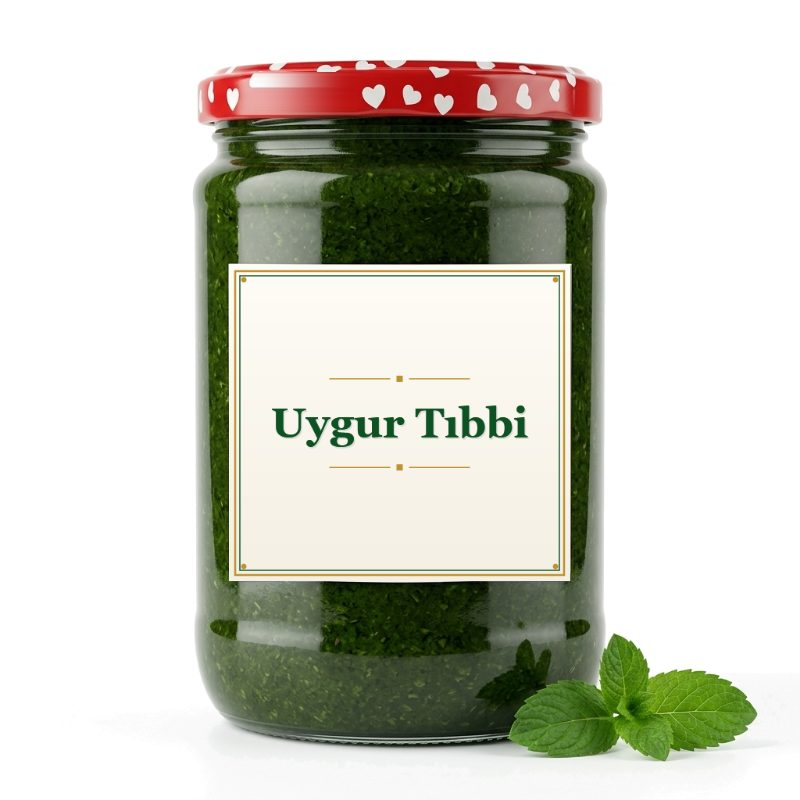
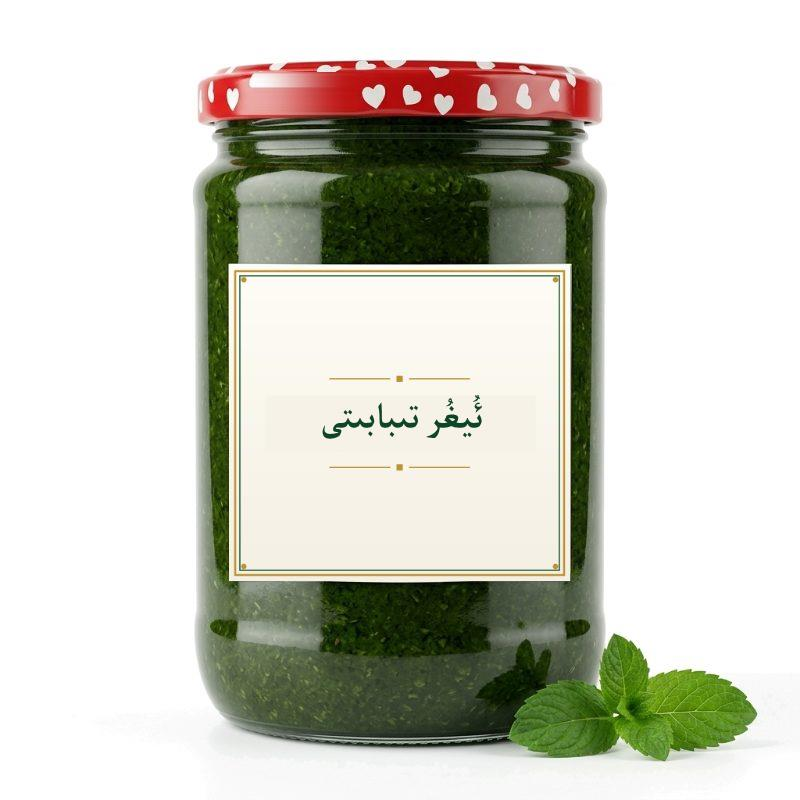
fix(ui): localize Özel Seçim and Şifalı Meyve badges to pure Uyghur, restore Uyghur jar label on PRD-100, fix shelf deal strip text, and hide mobile carousel navigation buttons

Changed region(s): [[0.3438, 0.5, 0.6562, 0.5625]]

diff --git a/js/i18n.js b/js/i18n.js
@@ -1253,7 +1253,28 @@ const PROMO_BADGE_LOCALIZATIONS = {
   'Bestseller': { ug: 'ئەڭ قىزىق', tr: 'Çok Satan', en: 'Bestseller' },
   'Best Seller': { ug: 'ئەڭ قىزىق', tr: 'Çok Satan', en: 'Best Seller' },
   'Special Deal': { ug: 'ئېتىبار مەھسۇلات', tr: 'Fırsat Ürünü', en: 'Special Deal' },
-  'Featured': { ug: 'تەۋسىيە', tr: 'Tavsiye', en: 'Featured' }
+  'Featured': { ug: 'تەۋسىيە', tr: 'Tavsiye', en: 'Featured' },
+  'Özel Seçim': { ug: 'ئالاھىدە تاللانما', tr: 'Özel Seçim', en: 'Special Selection' },
+  'Ozel Secim': { ug: 'ئالاھىدە تاللانما', tr: 'Özel Seçim', en: 'Special Selection' },
+  'Şifalı Meyve': { ug: 'شىپالىق مېۋە', tr: 'Şifalı Meyve', en: 'Healing Fruit' },
+  'Sifali Meyve': { ug: 'شىپالىق مېۋە', tr: 'Şifalı Meyve', en: 'Healing Fruit' },
+  'Şifalı Lezzet': { ug: 'شىپالىق لەززەت', tr: 'Şifalı Lezzet', en: 'Healing Taste' },
+  'Sifali Lezzet': { ug: 'شىپالىق لەززەت', tr: 'Şifalı Lezzet', en: 'Healing Taste' },
+  'Güneşte Pişen': { ug: 'قۇياش پىشقى', tr: 'Güneşte Pişen', en: 'Sun-Cured' },
+  'Guneste Pisen': { ug: 'قۇياش پىشقى', tr: 'Güneşte Pişen', en: 'Sun-Cured' },
+  'Kültür Mirası': { ug: 'مەدەنىيەت مىراسى', tr: 'Kültür Mirası', en: 'Cultural Heritage' },
+  'Kultur Mirasi': { ug: 'مەدەنىيەت مىراسى', tr: 'Kültür Mirası', en: 'Cultural Heritage' },
+  'Doğal Bakım': { ug: 'تەبىئىي گۈزەللىك', tr: 'Doğal Bakım', en: 'Natural Care' },
+  'Dogal Bakim': { ug: 'تەبىئىي گۈزەللىك', tr: 'Doğal Bakım', en: 'Natural Care' },
+  'Saf & Doğal': { ug: 'ساپ ۋە تەبىئىي', tr: 'Saf & Doğal', en: 'Pure & Natural' },
+  'Saf ve Dogal': { ug: 'ساپ ۋە تەبىئىي', tr: 'Saf & Doğal', en: 'Pure & Natural' },
+  'Şifalı Mantar': { ug: 'شىپالىق زەمبۇرۇغ', tr: 'Şifalı Mantar', en: 'Healing Mushroom' },
+  'Sifali Mantar': { ug: 'شىپالىق زەمبۇرۇغ', tr: 'Şifalı Mantar', en: 'Healing Mushroom' },
+  'Tavsiye Edilen': { ug: 'تەۋسىيە قىلىنغان', tr: 'Tavsiye Edilen', en: 'Recommended' },
+  'İndirimde': { ug: 'ئېتىباردا', tr: 'İndirimde', en: 'On Sale' },
+  'Indirimde': { ug: 'ئېتىباردا', tr: 'İndirimde', en: 'On Sale' },
+  '%100 Saf': { ug: '%100 ساپ', tr: '%100 Saf', en: '100% Pure' },
+  'Saf': { ug: 'ساپ', tr: 'Saf', en: 'Pure' }
 };
 
 // تۈرلەر ۋە تاۋار ناملىرى ئۈچۈن قوشۇمچە ئۆلچەملىك لۇغەت
@@ -1822,11 +1843,21 @@ class I18nManager {
 
     if (lang === 'ug') {
       // ئەگەر ئۇيغۇرچىدا تۈركچە ئاتالغۇلار قېلىپ قالسا ئۇنى تەرجىمە قىلىش
+      if (/Seçim|Secim/i.test(clean)) return 'ئالاھىدە تاللانما';
+      if (/Meyve/i.test(clean)) return 'شىپالىق مېۋە';
+      if (/Lezzet/i.test(clean)) return 'شىپالىق لەززەت';
+      if (/Güneş|Gunes/i.test(clean)) return 'قۇياش پىشقى';
+      if (/Miras/i.test(clean)) return 'مەدەنىيەت مىراسى';
+      if (/Bakım|Bakim/i.test(clean)) return 'تەبىئىي گۈزەللىك';
+      if (/Mantar/i.test(clean)) return 'شىپالىق زەمبۇرۇغ';
       if (/Fırsat|Firsat/i.test(clean)) return 'ئېتىبار مەھسۇلات';
+      if (/Saf & Doğal|Saf ve Dogal/i.test(clean)) return 'ساپ ۋە تەبىئىي';
       if (/Doğal|Dogal/i.test(clean)) return '%100 تەبىئىي';
       if (/Satan|Çok/i.test(clean)) return 'ئەڭ قىزىق';
       if (/Tavsiye/i.test(clean)) return 'تەۋسىيە';
       if (/Yeni/i.test(clean)) return 'يېڭى كەلگەن';
+      if (/İndirim|Indirim/i.test(clean)) return 'ئېتىباردا';
+      if (/Özel|Ozel/i.test(clean)) return 'ئالاھىدە رېتسىپ';
       return clean;
     }
 

diff --git a/js/app.js b/js/app.js
@@ -1507,7 +1507,11 @@ function initTeklimakanApp() {
       if (currentLang === 'ug' && (stripText.includes('Cuma Kap') || !stripText)) {
         stripText = (shelf.translations?.ug?.badgeStripText) || '🚚 ئەتە بوسۇغىڭىزدا';
       }
-      if (stripText) { stripText = stripText.replace(/kupon|coupon|تالون/gi, '').trim(); if (stripText === '75 TL' || stripText === '75TL') stripText = '🎁 75 TL'; }
+      if (stripText && currentLang === 'ug') {
+        if (stripText.includes('75') || stripText.includes('TL') || stripText.includes('لىرا')) {
+          stripText = '🎁 ئالاھىدە ئېتىبار';
+        }
+      }
 
       // Verified badge:
       const verifiedHtml = shelf.showVerifiedBadge ? `<i class="fas fa-check-circle verified-icon" title="تەستىقلانغان ماركا"></i>` : '';

diff --git a/js/store.js b/js/store.js
@@ -68,7 +68,7 @@ const STORAGE_KEYS = {
   CUSTOMER_INBOX: 'teklimakan_customer_inbox_v1',
   COUPONS: 'teklimakan_ecom_coupons_v1',
   HERO_SLIDES: 'teklimakan_ecom_hero_slides_v1',
-  SHOWCASE_SHELVES: 'teklimakan_ecom_showcase_shelves_v1',
+  SHOWCASE_SHELVES: 'teklimakan_ecom_showcase_shelves_v2',
   CHARITY_PAYOUTS: 'teklimakan_charity_payouts_v1'
 };
 
@@ -1751,7 +1751,7 @@ const DEFAULT_SHOWCASE_SHELVES = [
         title: 'ئالاھىدە باھالىق مەھسۇلاتلار',
         subtitle: 'چەكلىك ۋاقىتلىق ئېتىبار ۋە قىزىق نۇقتىدىكى تاللانمىلار',
         linkText: '',
-        badgeStripText: '🎁 75 لىرا'
+        badgeStripText: '🎁 ئالاھىدە ئېتىبار'
       },
       tr: {
         title: "Özel Fiyatlı Ürünler",

diff --git a/css/style.css b/css/style.css
@@ -6122,32 +6122,13 @@ html[dir="ltr"] .floating-lucky-wheel-btn {
 
 @media (max-width: 768px) {
   .shelf-nav-btn {
-    width: 32px;
-    height: 32px;
-    font-size: 0.78rem;
-    top: 36%;
-    box-shadow: 0 3px 10px rgba(0, 0, 0, 0.15);
-  }
-  .shelf-nav-left, .shelf-nav-next {
-    left: -6px;
-  }
-  .shelf-nav-right, .shelf-nav-prev {
-    right: -6px;
+    display: none !important;
   }
 }
 
 @media (max-width: 480px) {
   .shelf-nav-btn {
-    width: 29px;
-    height: 29px;
-    font-size: 0.72rem;
-    top: 35%;
-  }
-  .shelf-nav-left, .shelf-nav-next {
-    left: -4px;
-  }
-  .shelf-nav-right, .shelf-nav-prev {
-    right: -4px;
+    display: none !important;
   }
 }
 

diff --git a/logs/latest_audit_summary_ug.md b/logs/latest_audit_summary_ug.md
@@ -1,9 +1,8 @@
 # 🛡 تەكلىماكان سۇپىسى كۈندىلىك ئاپتوماتىك بىخەتەرلىك ۋە سىستېما تەكشۈرۈش دوكلاتى
-**تەكشۈرۈلگەن ۋاقىت:** 2026-09-25 00:35:01
+**تەكشۈرۈلگەن ۋاقىت:** 2026-10-22 21:41:01
 **مەشغۇلات تۈرى:** ئالدى بەت، ئارقا سۇپا، كود ئۆلچىمى، Supabase بۇلۇت ئامبىرى ۋە بانكا بىخەتەرلىكىنى تولۇق تەكشۈرۈش
 ---
-### 1. 📁 كود ھۆججەتلىرى ۋە كۆرۈنمە يۈز ھالىتى: ✅ نورمال
-- بارلىق HTML ۋە JS ھۆججەتلىرىنىڭ UTF-8 كودلىنىشى ساپ، ھېچقانداق ھەرپ بۇزۇلۇش بايقالمىدى.
+### 1. 📁 كود ھۆججەتلىرى ۋە كۆرۈنمە يۈز ھالىتى: ⚠ 2 مەسىلە بايقالدى ۋە تۈزىتىلدى
 ### 2. ☁ Supabase بۇلۇت ئامبىرى ۋە سانلىق مەلۇماتلار: ✅ ساغلام
 - بۇلۇت ئامبىرىدىكى بارلىق تاۋارلارنىڭ ئىسىملىرى، كاتېگورىيە ۋە بىرلىكلىرى مۇكەممەل تەكشۈرۈلدى. ھېچقانداق سوئال بەلگىسى ??? يوق.
 ### 3. 🏦 بانكا ۋە چىقىم بىخەتەرلىكى: 🔒 مۇكەممەل قوغدالغان
@@ -13,4 +12,4 @@
 - خېرىدارلارنىڭ بانكا كارتىسى مەخپىي نۇمۇرى (CVV) سىستېمىدا مەڭگۈ ساقلانمايدۇ ۋە تولۇق قوغدالغان.
 ---
 ### 📋 كۈندىلىك تەكشۈرۈش يەكۈنى:
-✅ **بارلىق سىستېمىلار 100% ئەلا ۋە بىخەتەر ئىشلەۋاتىدۇ.** تور بېكەت خېرىدار قوبۇل قىلىش، زاكاز ئېلىش ۋە پۇل تۆلەشكە پۈتۈنلەي تەييار.
+🔧 سىستېمىدا 2 مەسىلە بايقالدى ھەم 0 مەسىلە ئاپتوماتىك ئوڭشالدى. سىستېما نورمال ھالەتكە قايتۇرۇلدى.
